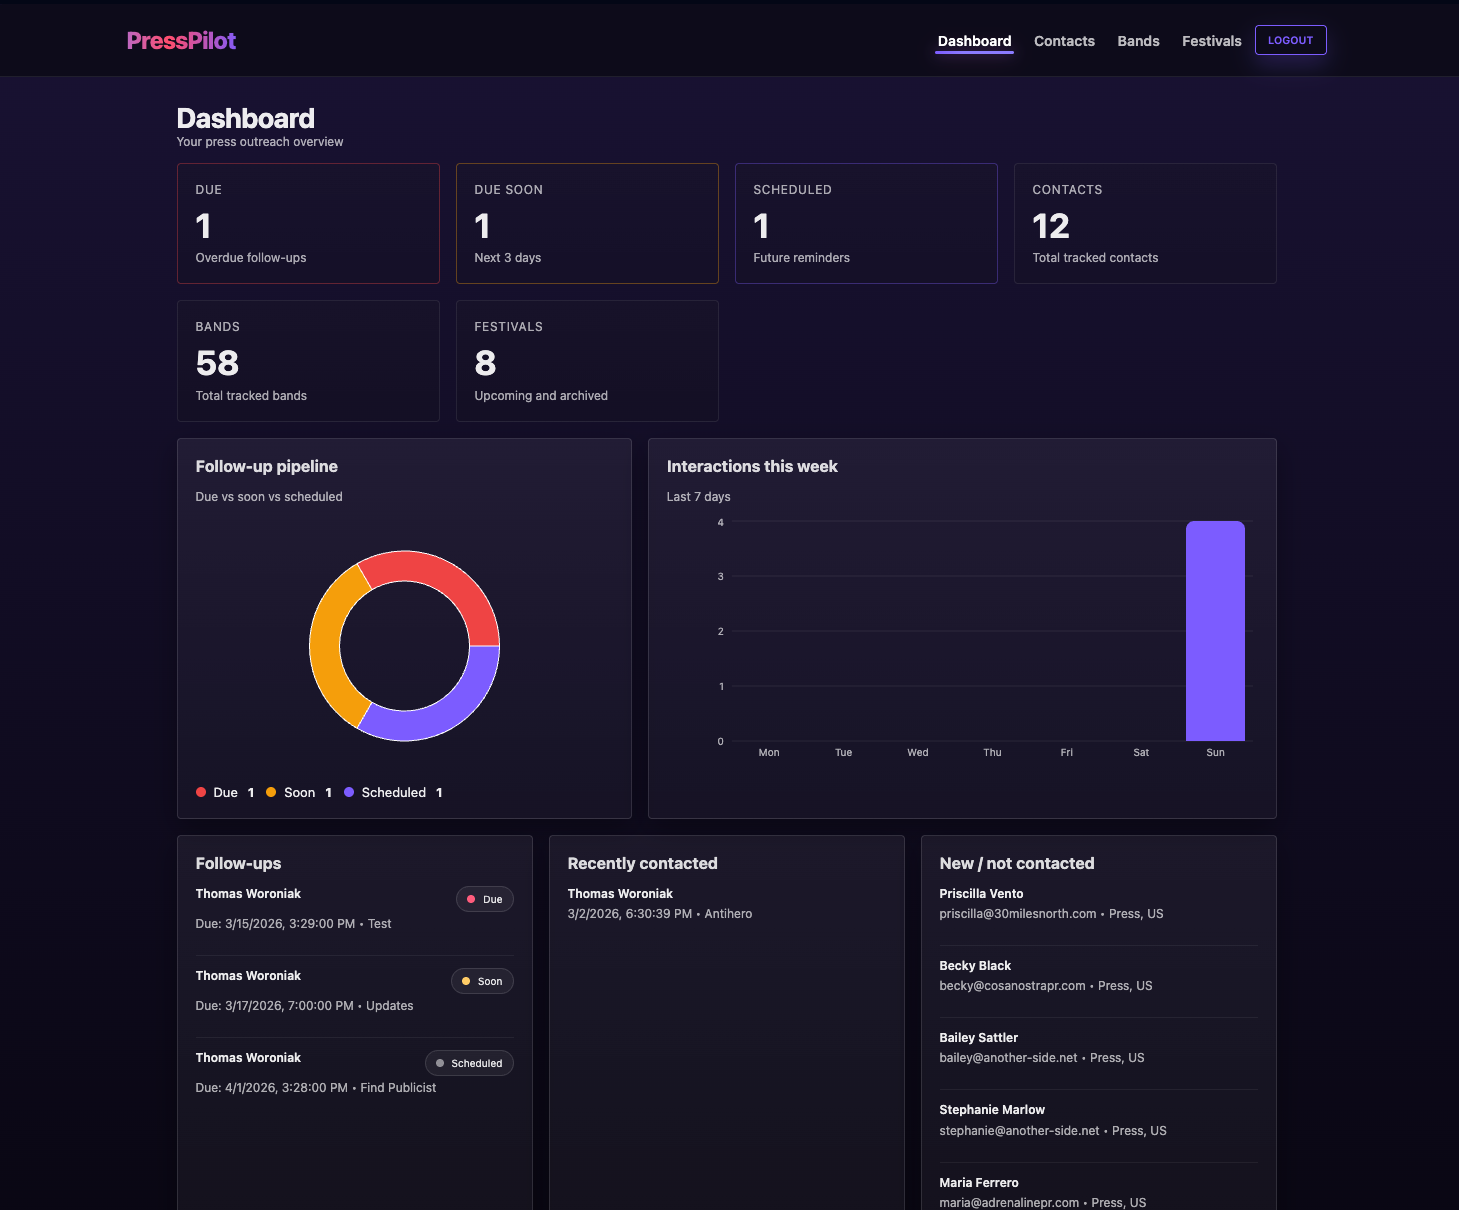
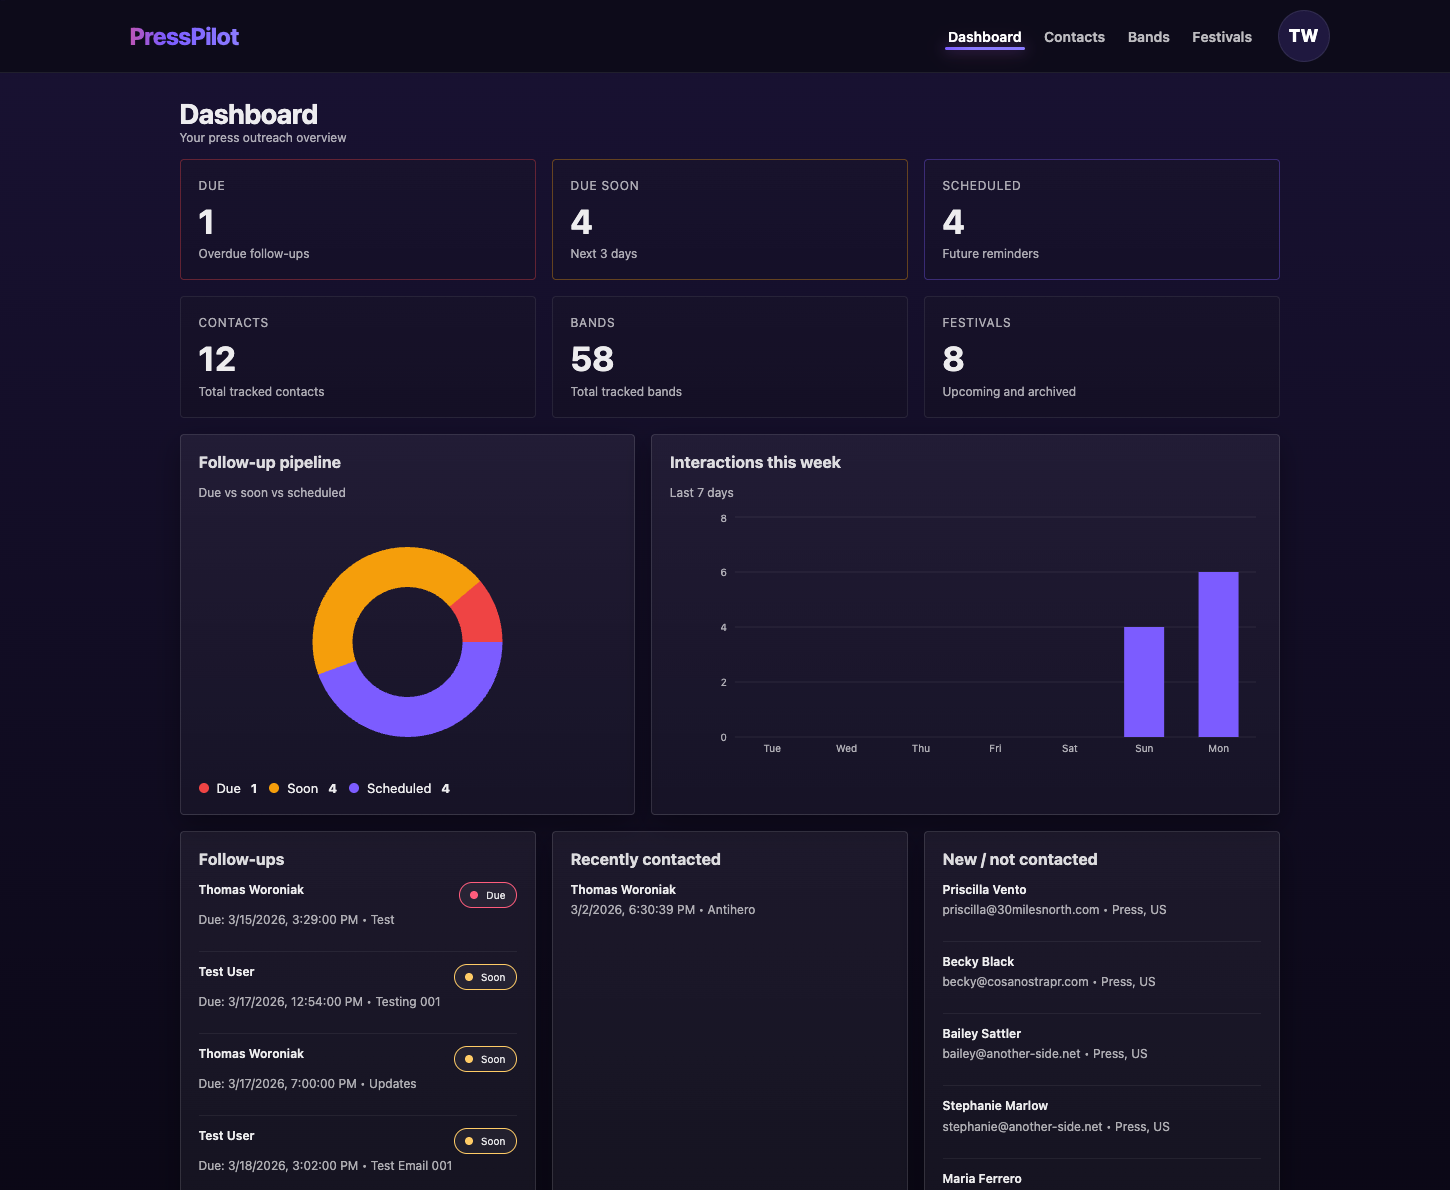
updates

diff --git a/apps/web/src/features/dashboard/DashboardPage.tsx b/apps/web/src/features/dashboard/DashboardPage.tsx
@@ -174,7 +174,7 @@ export default function DashboardPage() {
                     data={pipeline}
                     dataKey='value'
                     nameKey='name'
-                    innerRadius={60}
+                    innerRadius={55}
                     outerRadius={95}
                     paddingAngle={0}
                   >
@@ -182,6 +182,7 @@ export default function DashboardPage() {
                       <Cell
                         key={`${entry.name}-${index}`}
                         fill={pieColors[index % pieColors.length]}
+                        strokeWidth={0}
                       />
                     ))}
                   </Pie>
@@ -267,7 +268,7 @@ export default function DashboardPage() {
                   />
                   <Bar
                     dataKey='count'
-                    barSize='30'
+                    barSize='40'
                     // radius={[8, 8, 0, 0]}
                     fill='#7c5cff'
                   />

diff --git a/apps/web/src/components/ui/Timeline/Timeline.tsx b/apps/web/src/components/ui/Timeline/Timeline.tsx
@@ -3,7 +3,7 @@ import { Badge } from '../Badge/Badge';
 import { Chip } from '../Chip/Chip';
 import styles from './Timeline.module.scss';
 
-import { Trash2, Pencil } from 'lucide-react';
+import { Trash2, Pencil, CornerDownRight } from 'lucide-react';
 
 type LinkedRef = {
   id: string;
@@ -107,7 +107,10 @@ export function Timeline({ items, onEdit, onDelete }: TimelineProps) {
               {it.outcome ? (
                 <div className={styles.outcome}>
                   <span className={styles.label}>Outcome</span>
-                  <span>{it.outcome}</span>
+                  <span className={styles.outcomeContent}>
+                    <CornerDownRight size={12} />
+                    {it.outcome}
+                  </span>
                 </div>
               ) : null}
 

diff --git a/apps/web/src/features/contacts/ContactDetailPage.tsx b/apps/web/src/features/contacts/ContactDetailPage.tsx
@@ -28,7 +28,7 @@ import {
 
 import { useBands, useCreateBand } from '../bands/queries';
 import { useFestivals, useCreateFestival } from '../festivals/queries';
-import { X } from 'lucide-react';
+import { X, Mail } from 'lucide-react';
 
 type InteractionType = 'EMAIL' | 'CALL' | 'DM' | 'NOTE';
 
@@ -245,6 +245,7 @@ export default function ContactDetailPage() {
                 <div className={styles.detailRow}>
                   <span className={styles.detailLabel}>Email</span>
                   <span className={styles.detailValue}>
+                    <Mail size={14} />
                     {data.email ? (
                       <a href={`mailto:${data.email}`}>{data.email}</a>
                     ) : (

diff --git a/apps/web/src/features/contacts/ContactDetailPage.module.scss b/apps/web/src/features/contacts/ContactDetailPage.module.scss
@@ -32,6 +32,7 @@
   display: flex;
   flex-wrap: wrap;
   gap: 8px;
+  margin-bottom: 1.5rem;
 }
 
 /* Profile Card */
@@ -52,19 +53,6 @@
   display: flex;
   align-items: center;
   gap: 14px;
-}
-
-.avatar {
-  width: 52px;
-  height: 52px;
-  border-radius: var(--radius-full);
-  display: grid;
-  place-items: center;
-  font-weight: 600;
-  font-size: 2.4rem;
-  background: rgba(124, 92, 255, 0.16);
-  color: white;
-  flex-shrink: 0;
 }
 
 .profileText {
@@ -103,10 +91,15 @@
 }
 
 .detailValue {
-  font-size: 14px;
+  display: flex;
+  gap: 0.5rem;
+  align-items: center;
+  color: var(--muted);
+  font-size: 12px;
   line-height: 1.4;
 
   a {
+    font-size: 1.4rem;
     text-decoration: none;
   }
 }

diff --git a/apps/web/src/components/ui/Timeline/Timeline.module.scss b/apps/web/src/components/ui/Timeline/Timeline.module.scss
@@ -181,6 +181,16 @@
   gap: 4px;
 }
 
+.outcomeContent {
+  font-size: 1.4rem;
+  padding: 0.5rem 1rem;
+  background: rgba(255, 255, 255, 0.04);
+  border-radius: var(--radius);
+  border-color: rgba(255, 255, 255, 0.1);
+  border-width: 1px;
+  border-style: solid;
+}
+
 .label {
   font-size: 12px;
   text-transform: uppercase;
@@ -189,6 +199,7 @@
 }
 
 .notes {
+  font-size: 1.2rem;
   margin-top: 10px;
   line-height: 1.55;
   opacity: 0.9;

diff --git a/apps/web/index.html b/apps/web/index.html
@@ -10,7 +10,9 @@
       href="https://fonts.googleapis.com/css2?family=Rubik:ital,wght@0,300..900;1,300..900&display=swap"
       rel="stylesheet"
     />
-    <title>Press Contact Portal</title>
+    <title>
+      PressPilot — Organize your press contacts - Simplify your outreach.
+    </title>
   </head>
   <body>
     <div id="root"></div>

diff --git a/README.md b/README.md
@@ -18,6 +18,7 @@ Live Demo is unavailable at the moment. Vercel deployment is planned.
 ![Press Contact Portal screen 6.](/apps/web/src/assets/screen-06.png 'Press Contact Portal screen 6.')
 ![Press Contact Portal screen 7.](/apps/web/src/assets/screen-07.png 'Press Contact Portal screen 7.')
 ![Press Contact Portal screen 8.](/apps/web/src/assets/screen-08.png 'Press Contact Portal screen 8.')
+![Press Contact Portal screen 9.](/apps/web/src/assets/screen-09.png 'Press Contact Portal screen 9.')
 
 ---
 
